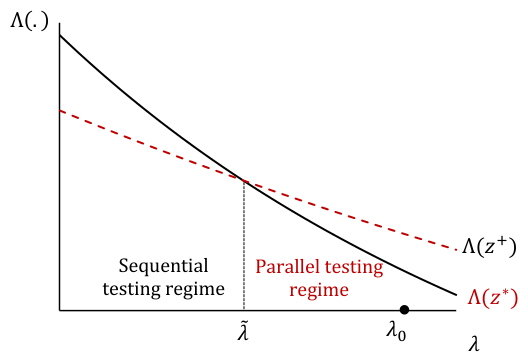
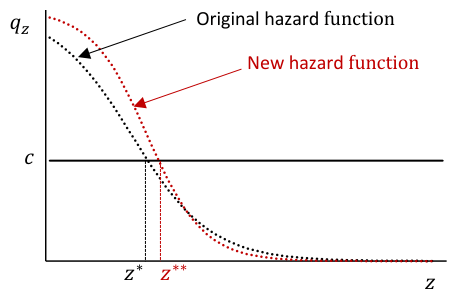
Swap RP 2024 figure to Figure 4a (hazard swivel from improved prediction)
Claude-Session: https://claude.ai/code/session_01Cajorfgxu6FmjnpjFSjQFm

diff --git a/research/index.html b/research/index.html
@@ -193,8 +193,8 @@
 
       <article class="paper">
         <figure>
-          <img src="/img/figs/ai-prioritized-search.png" width="528" height="362" loading="lazy"
-               alt="Expected profit under sequential versus parallel testing regimes as the time cost of a test rises">
+          <img src="/img/figs/ai-prioritized-search.png" width="457" height="299" loading="lazy"
+               alt="An improved prediction model swivels the hazard function clockwise, extending the optimal search duration from z* to z**">
         </figure>
         <div class="body">
           <p class="year">2024</p>